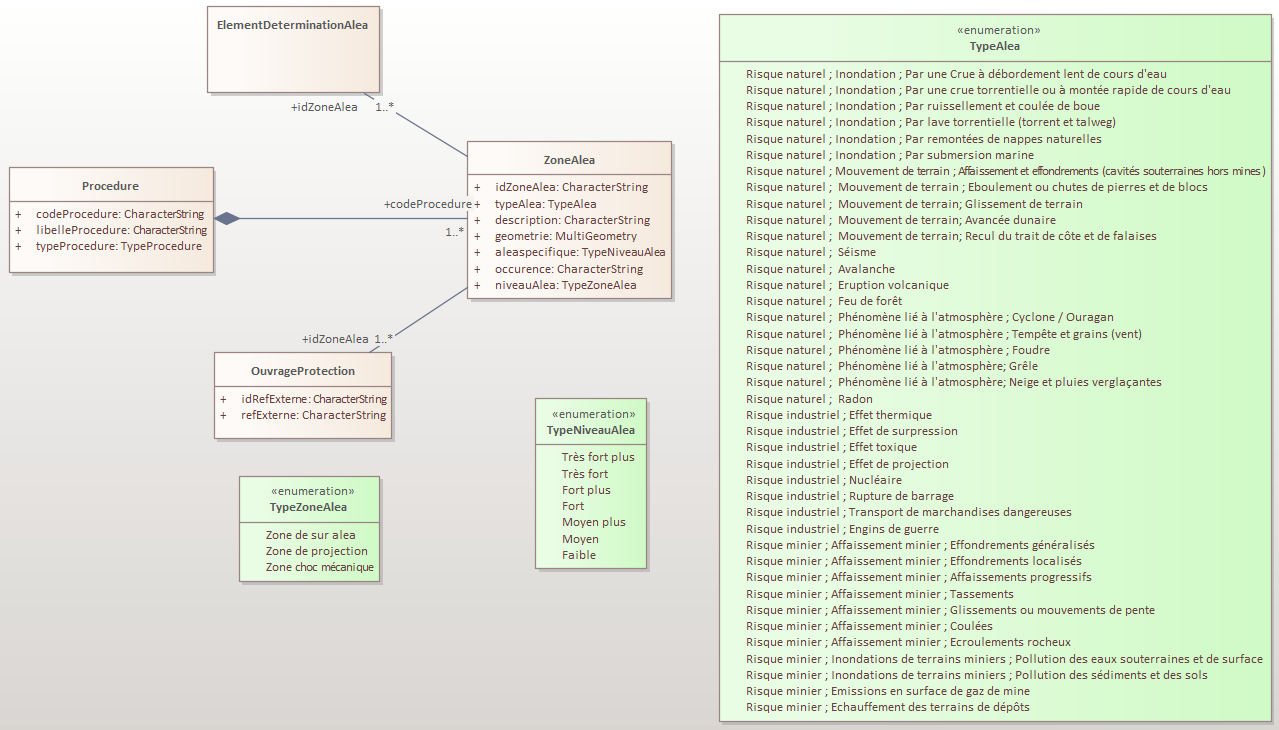
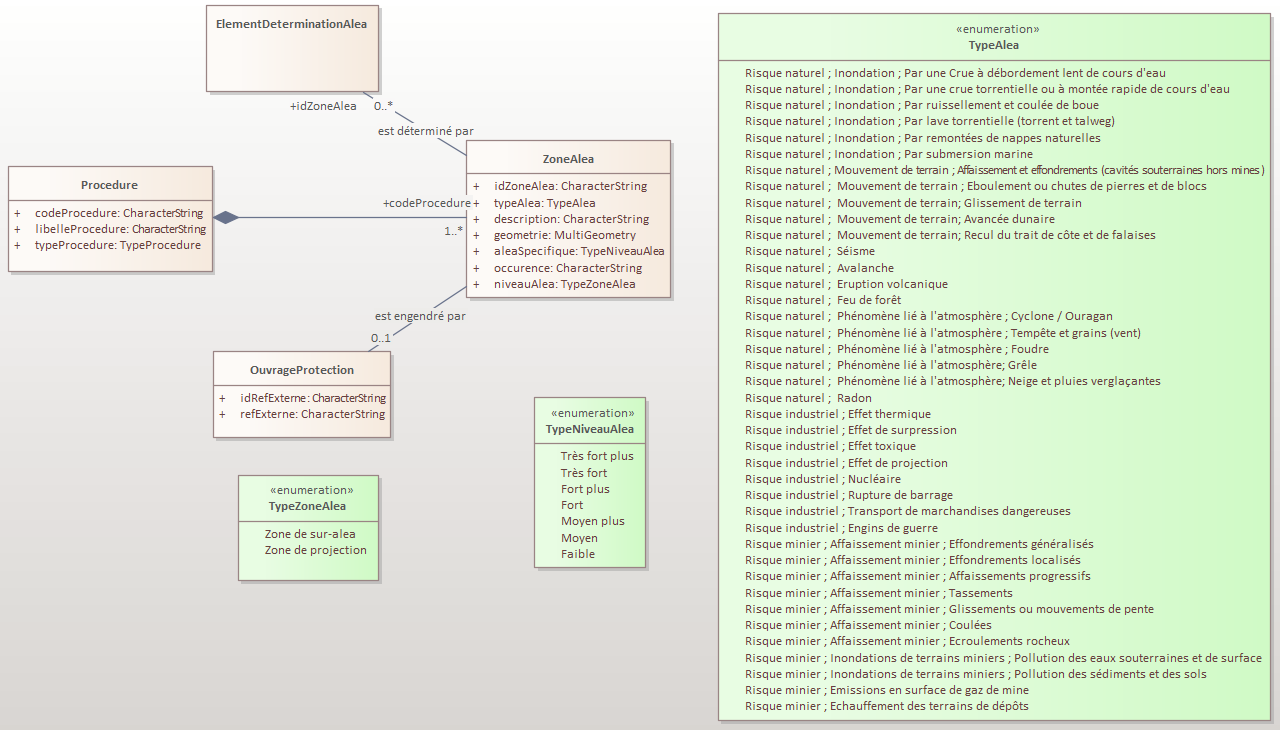
Complément description thématique ZoneAléa

diff --git a/standards/Geostandards-risques-commun/Document.md b/standards/Geostandards-risques-commun/Document.md
@@ -367,6 +367,14 @@ Les zones d'aléas sont déterminées à partir d'éléments techniques, spécif
 
 
 
+#### Associations de la classe ZoneAlea
+
+| Nom de l'association | Type | Définition | Classe de départ | Classe d'arrivée |
+|-|-|-|-|-|
+| **est déterminé par** | Association | Relation sémantique permettant de faire le lien entre une zone d'aléa et des éléments qui ont pu permettre de la calculer, décrits par la classe générique [ElementDeterminationAlea](#classe-dobjets-elementdeterminationalea).| [ZoneAlea](#classe-dobjets-zonealea) (0..1) | [ElementDeterminationAlea](#classe-dobjets-elementdeterminationalea) (0..\*) |
+| **est engendré par** | Association | Relation sémantique permettant d'associer une zone d'aléa qui serait la conséquence de d'un ouvrage de protection avec l'objet décrivant l'ouvrage en question. | [ZoneAlea](#classe-dobjets-zonealea) (0..1) |  [OuvrageProtection](#classe-dobjets-ouvrageprotection) (0..1) |
+
+
 
 #### Classe d'objets *OuvrageProtection*
 
@@ -374,7 +382,7 @@ Les zones d'aléas sont déterminées à partir d'éléments techniques, spécif
 
 **Titre** : Ouvrage de protection
 
-**Définition** : La classe Ouvrage de protection ...
+**Définition** : La classe Ouvrage de protection permet de faire état des ouvrages de protection contre les aléas (par exemple des digues en prévention des risques d'inondation). La modélisation de ces ouvrages est décrite dans d'autres référentiels tels que le Référentiel des Obstacles à l'Ecoulement ou le Système d'Information sur les Ouvrages Hydrauliques (SIOuH), cette classe permet de faire le lien avec des objets qui en sont issus.
 
 **Modélisation géométrique** : Pas de géométrie. La géométrie est portée par les objets vers lesquels cette classe permet de pointer.
 
@@ -383,7 +391,8 @@ Les zones d'aléas sont déterminées à partir d'éléments techniques, spécif
 
 | Nom de la propriété | Définition | Type | Valeurs possibles | Contraintes |
 |-|-|-|-|-|
-| adresse | Adresse internet de la ressource (URL) | CharacterString | formalisme d'URL à respecter | 1..1 | 
+| refExterne | Nom du référentiel externe d'où est extrait l'objet | CharacterString | La valeur doit désigner de manière non ambigue un nom et une version du référentiel utilisé | 1..1 | 
+| idRefExterne | Identifiant de l'objet dans le référentiel externe d'où il est extrait | CharacterString | Le formalisme de l'identifiant est déterminé par les spécifications du référentiel externe | 1..1 | 
 
 
 #### Classe d'objets *ElementDeterminationAlea*
@@ -392,7 +401,7 @@ Les zones d'aléas sont déterminées à partir d'éléments techniques, spécif
 
 **Titre** : Element de détermination d'aléa
 
-**Définition** : La classe Element de détermination d'aléa ...
+**Définition** : La classe Element de détermination d'aléa est une classe générique (abstraite) qui permet de lier des objets spécifiques (issus d'études hydrauliques par exemple) ayant permis de déterminer une zone d'aléa. Elle a vocation à être spécialisée en fonction de l'application de ce modèle.
 
 **Modélisation géométrique** : Classe générique ne portant pas de géométrie à priori. Ses classes dérivées peuvent en porter selon les cas.
 
@@ -401,34 +410,83 @@ Les zones d'aléas sont déterminées à partir d'éléments techniques, spécif
 
 | Nom de la propriété | Définition | Type | Valeurs possibles | Contraintes |
 |-|-|-|-|-|
-| adresse | Adresse internet de la ressource (URL) | CharacterString | formalisme d'URL à respecter | 1..1 | 
+| idZoneAlea | Identifiant de la zone d'aléa qui a été déterminée par cet élément | CharacterString | Valeur d'un identifiant porté par un objet de classe zoneAlea | 1..1 | 
 
 
 #### Enumeration *TypeAlea*
 
-Le tableau suivant liste ... les correspondances avec la nomenclature définie dans GASPAR sont précisées dans le [paragraphe dédié](#nomenclature-des-risques-et-de-leurs-codes-dans-gaspar).
+Le tableau suivant liste les différents types d'aléas applicables les zones d'Aléas. Les correspondances avec la nomenclature définie dans GASPAR sont précisées dans le [paragraphe dédié](#nomenclature-des-risques-et-de-leurs-codes-dans-gaspar). A noter que Les libellés intègrent la hiérarchisation à trois niveau proposée par la nomenclature GASPAR.
 
-
-| Libellé Etat | Description |
-|-|-|
+| Libellé Aléa |
+|-|
+| Risque naturel ; Inondation ; Par une crue à débordement lent de cours d'eau |
+| Risque naturel ; Inondation ; Par une crue torrentielle ou à montée rapide de cours d'eau |
+| Risque naturel ; Inondation ; Par ruissellement et coulée de boue |
+| Risque naturel ; Inondation ; Par lave torrentielle (torrent et talweg) |
+| Risque naturel ; Inondation ; Par remontées de nappes naturelles |
+| Risque naturel ; Inondation ; Par submersion marine |
+| Risque naturel ; Mouvement de terrain ; Affaissement et effondrements (cavités souterraines hors mines) |
+| Risque naturel ; Mouvement de terrain ; Eboulement ou chutes de pierres et de blocs |
+| Risque naturel ; Mouvement de terrain; Glissement de terrain |
+| Risque naturel ; Mouvement de terrain; Avancée dunaire |
+| Risque naturel ; Mouvement de terrain; Recul du trait de côte et de falaises |
+| Risque naturel ; Séisme |
+| Risque naturel ; Avalanche |
+| Risque naturel ; Eruption volcanique |
+| Risque naturel ; Feu de forêt |
+| Risque naturel ; Phénomène lié à l'atmosphère ; Cyclone / Ouragan |
+| Risque naturel ; Phénomène lié à l'atmosphère ; Tempête et grains (vent) |
+| Risque naturel ; Phénomène lié à l'atmosphère ; Foudre |
+| Risque naturel ; Phénomène lié à l'atmosphère; Grêle |
+| Risque naturel ; Phénomène lié à l'atmosphère; Neige et pluies verglaçantes |
+| Risque naturel ; Radon  |
+| Risque technologique ; Risque industriel ; Effet thermique |
+| Risque technologique ; Risque industriel ; Effet de surpression |
+| Risque technologique ; Risque industriel ; Effet toxique |
+| Risque technologique ; Risque industriel ; Effet de projection |
+| Risque technologique ; Nucléaire |
+| Risque technologique ; Rupture de barrage |
+| Risque technologique ; Transport de marchandises dangereuses |
+| Risque technologique ; Engins de guerre |
+| Risque minier ; Affaissement minier ; Effondrements généralisés |
+| Risque minier ; Affaissement minier ; Effondrements localisés |
+| Risque minier ; Affaissement minier ; Affaissements progressifs |
+| Risque minier ; Affaissement minier ; Tassements |
+| Risque minier ; Affaissement minier ; Glissements ou mouvements de pente |
+| Risque minier ; Affaissement minier ; Coulées |
+| Risque minier ; Affaissement minier ; Ecroulements rocheux |
+| Risque minier ; Inondations de terrains miniers ; Pollution des eaux souterraines et de surface |
+| Risque minier ; Inondations de terrains miniers ; Pollution des sédiments et des sols |
+| Risque minier ; Emissions en surface de gaz de mine |
+| Risque minier ; Echauffement des terrains de dépôts |
 
 
 #### Enumeration *TypeNiveauAlea*
 
-Le tableau suivant liste ... 
+Le tableau suivant liste les valeurs possibles pour caractériser l'intensité des aléas. Elles représentent une gradation sur une échelle croissante d'intensité. Les règles de détermination du niveau varient en fonction de la zone et du type d'aléa et sont précisées dans des guides dédiés qui sont référencés dans les métadonnées associées au jeu de données.
 
 
-| Libellé Etat | Description |
+| Code | Libellé Etat | 
 |-|-|
+| 01 | Faible |
+| 02 | Moyen |
+| 03 | Moyen plus |
+| 04 | Fort |
+| 05 | Fort plus |
+| 06 | Très fort |
+| 07 | Très fort plus |
 
 
 #### Enumeration *TypeZoneAlea*
 
-Le tableau suivant liste ... 
+Le tableau suivant liste les valeurs possibles permettant de caractériser les zones d'aléas lorsqu'elles sont engendrées par des ouvrages de protection. 
 
 
 | Libellé Etat | Description |
 |-|-|
+| zone de sur-aléa | Zone où le risque est plus important si l’ouvrage de protection cède que si l’ouvrage de protection n’avait pas existé |
+| zone de projection | Il s'agit de la zone décrivant les secteurs soumis aux chocs de vagues et aux projections tels que définis dans le guide PPRL |
+
 
 
 
@@ -492,22 +550,29 @@ Le tableau suivant liste ...
 
 #### Nomenclature des risques et de leurs codes dans GASPAR
 
-Le tableau suivant présente la classification des risques en trois niveaux croissants de spécialisation par l'application GASPAR et les codes qui y sont associés.
+GASPAR propose une nomenclature des risques hiérarchisée sur trois niveaux croissants de spécialisation du risque, avec une codification correspondante preséntée dans le tableau suivant. 
 
-> *Indiquer l'utilisation des cette classification dans le cadre des Géostandards*
+L'énumération [TypeAlea](#enumeration-typealea) présentée définie dans ce standard, s'appuie sur cette nomenclature, __en utilisant uniquement les codes de niveau hiérarchique le plus haut__, comme c'est la règle dans l'application GASPAR. Les aléas utilsés par le standard sont représentés en **gras** dans le tableau. Les libellés de l'énumération correspondants aggrègent les libellés des niveaux hiérarchiques inférieurs lorsqu'il y en a. 
+
+Par exemple, le libellé de l'énumération correspondant au code d'aléa "114" est : "Risque naturel ; Inondation ; Par ruissellement et coulée de boue" car il est hiérarchisé ainsi dans la nomenclature :
+
+- niveau 1 : "Risque naturel"
+- niveau 2 : "Inondation"
+- niveau 3 : "Par ruissellement ert coulée de boue"
+
 
 | Code | Niveau | Libellé Risque
 | - | - | - |
-| **1** | **1** | **Risque Naturel** |
+| 1 | 1 | Risque Naturel |
 | 11 | 2 | Inondation |
-| 112	| 3 | Par une crue à débordement lent de cours d'eau |
+| **112	| 3 | Par une crue à débordement lent de cours d'eau |
 | 113	| 3 | Par une crue torrentielle ou à montée rapide de cours d'eau |
 | 114	| 3 | Par ruissellement et coulée de boue |
 | 115	| 3 | Par lave torrentielle (torrent et talweg)  |
 | 116 | 3 | Par remontées de nappes naturelles |
-| 117	| 3 | Par submersion marine |
+| 117	| 3 | Par submersion marine** |
 | 12 | 2 | Mouvement de terrain |
-| 121	| 3 | Affaissement et effondrements (cavités souterraines hors mines) |
+| **121	| 3 | Affaissement et effondrements (cavités souterraines hors mines) |
 | 123	| 3 | Eboulement ou chutes de pierres et de blocs |
 | 124	| 3 | Glissement de terrain |
 | 125	| 3 | Avancée dunaire |
@@ -516,37 +581,38 @@ Le tableau suivant présente la classification des risques en trois niveaux croi
 | 13 | 2 | Séisme |
 | 14 | 2 | Avalanche |
 | 15 | 2 | Eruption volcanique |
-| 16 | 2 | Feu de forêt |
+| 16 | 2 | Feu de forêt** |
 | 17 | 2 | Phénomène lié à l'atmosphère |
-| 171 |	3 | Cyclone / Ouragan |
+| **171 |	3 | Cyclone / Ouragan |
 | 172	| 3 | Tempête et grains (vent) |
 | 174	| 3 | Foudre |
 | 175	| 3 | Grêle | 
 | 176	| 3 | Neige et pluies verglaçantes |
-| 18 | 2 | Radon |
-| **2** | **1** | **Risque technologique** |
-| 211	| 3 | Effet thermique |
+| 18 | 2 | Radon** |
+| 2 | 1 | Risque technologique |
+| 21	| 2 | Risque Industriel |
+| **211	| 3 | Effet thermique |
 | 212	| 3 | Effet de surpression | 
 | 213	| 3 | Effet toxique  |
 | 214	| 3 | Effet de projection |
 | 22	| 2 | Nucléaire |
 | 23	| 2 | Rupture de barrage |
 | 24	| 2 | Transport de marchandises dangereuses |
-| 25	| 2 | Engins de guerre |
-| **3** | **1** | **Risque minier** |
+| 25	| 2 | Engins de guerre** |
+| 3 | 1 | Risque minier |
 | 31 | 2 | Affaissement minier |
-| 311	| 3 | Effondrements généralisés | 
+| **311	| 3 | Effondrements généralisés | 
 | 312	| 3 | Effondrements localisés | 
 | 313	| 3 | Affaissements progressifs | 
 | 314	| 3 | Tassements | 
 | 315	| 3 | Glissements ou mouvements de pente | 
 | 316	| 3 | Coulées | 
-| 317	| 3 | Ecroulements rocheux | 
+| 317	| 3 | Ecroulements rocheux** | 
 | 32 | 2 | Inondations de terrains miniers |
-| 321	| 3 | Pollution des eaux souterraines et de surface |
+| **321	| 3 | Pollution des eaux souterraines et de surface |
 | 322	| 3 | Pollution des sédiments et des sols |
 | 33 | 2 | Emissions en surface de gaz de mine |
-| 34 | 2 | Echauffement des terrains de dépôts |
+| 34 | 2 | Echauffement des terrains de dépôts** |
 
 
 
